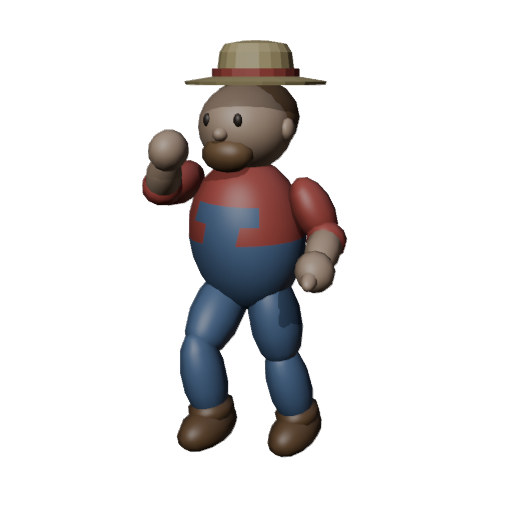
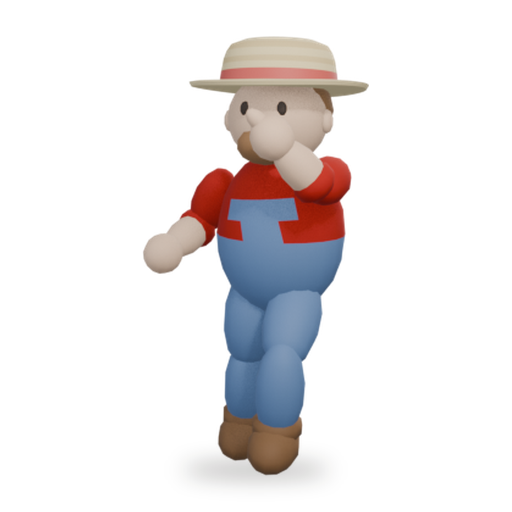
My Favorite Sheep: new screenshots and hero, cleaner cosmetic pictures, T-shirts (incl. Hoodlock) and auras
All new items stay behind MFS_ON_SALE (Coming soon) until the Steam page is live.

Changed region(s): [[0.25, 0.0625, 0.7188, 0.9688]]

diff --git a/lib/catalog.js b/lib/catalog.js
@@ -28,6 +28,14 @@ const ITEMS = [
   { id: 'mfs-outfit-bandana', game: MFS, name: 'Red bandana', description: 'Knotted at the neck, ready for dust.', usd: 3, image: '/shop/mfs-outfit-bandana.png', available: MFS_ON_SALE },
   { id: 'mfs-outfit-raincoat', game: MFS, name: 'Yellow raincoat', description: 'Bright as a warning. The wolf sees you coming, and so do your friends.', usd: 3, image: '/shop/mfs-outfit-raincoat.png', available: MFS_ON_SALE },
 
+  // ---- T-shirts (outfits: a fitted tee with a chest print; the sleeves take the tee's colour)
+  { id: 'mfs-outfit-tee-sheep', game: MFS, name: 'Sheep tee', description: 'Soft cream cotton with a woolly face on the front.', usd: 3, image: '/shop/mfs-outfit-tee-sheep.png', available: MFS_ON_SALE },
+  { id: 'mfs-outfit-tee-wolf', game: MFS, name: 'Howl tee', description: 'Charcoal, with a wolf howling at a golden moon. Bold, given the circumstances.', usd: 3, image: '/shop/mfs-outfit-tee-wolf.png', available: MFS_ON_SALE },
+  { id: 'mfs-outfit-tee-farmfresh', game: MFS, name: 'Farm Fresh tee', description: "Sage green with the farm's own stamp on the chest.", usd: 3, image: '/shop/mfs-outfit-tee-farmfresh.png', available: MFS_ON_SALE },
+  { id: 'mfs-outfit-tee-lamb', game: MFS, name: 'I Love Lambs tee', description: 'Pink, proud and completely sincere.', usd: 3, image: '/shop/mfs-outfit-tee-lamb.png', available: MFS_ON_SALE },
+  { id: 'mfs-outfit-tee-sunset', game: MFS, name: 'Sunset tee', description: 'Navy, with the sun going down behind the windmill.', usd: 3, image: '/shop/mfs-outfit-tee-sunset.png', available: MFS_ON_SALE },
+  { id: 'mfs-outfit-tee-hoodlock', game: MFS, name: 'Hoodlock tee', description: 'Black with the green Hoodlock mark - the farmers who keep the tokens locked.', usd: 3, image: '/shop/mfs-outfit-tee-hoodlock.png', available: MFS_ON_SALE },
+
   // ---- tool skins (stick, pitchfork and axe all change together)
   { id: 'mfs-skin-gilded', game: MFS, name: 'Gilded tools', description: 'Walnut handles and gold-plated heads. Ridiculous on a farm.', usd: 2, image: '/shop/mfs-skin-gilded.png', available: MFS_ON_SALE },
   { id: 'mfs-skin-blackiron', game: MFS, name: 'Black iron tools', description: 'Charcoal and blackened iron, for a farmer who means it.', usd: 2, image: '/shop/mfs-skin-blackiron.png', available: MFS_ON_SALE },
@@ -35,18 +43,26 @@ const ITEMS = [
   { id: 'mfs-skin-frostbite', game: MFS, name: 'Frostbite tools', description: 'Pale ash and a blade that glows cold in the dark.', usd: 2, image: '/shop/mfs-skin-frostbite.png', available: MFS_ON_SALE },
 
   // ---- titles (shown after the player's name to everyone in the game)
-  { id: 'mfs-title-shepherd', game: MFS, name: 'Title: Shepherd', description: 'Shown after your name to everyone in the game.', usd: 1, available: MFS_ON_SALE },
-  { id: 'mfs-title-wolfsbane', game: MFS, name: 'Title: Wolfsbane', description: 'Shown after your name to everyone in the game.', usd: 1.5, available: MFS_ON_SALE },
-  { id: 'mfs-title-sheriff', game: MFS, name: 'Title: Sheriff of the Pasture', description: 'Shown after your name to everyone in the game.', usd: 1.5, available: MFS_ON_SALE },
-  { id: 'mfs-title-lambchop', game: MFS, name: 'Title: Lamb Chop', description: 'Shown after your name to everyone in the game.', usd: 1, available: MFS_ON_SALE },
-  { id: 'mfs-title-nightwatch', game: MFS, name: 'Title: Night Watch', description: 'Shown after your name to everyone in the game.', usd: 1, available: MFS_ON_SALE },
-  { id: 'mfs-title-counter', game: MFS, name: 'Title: Counts Sheep to Sleep', description: 'Shown after your name to everyone in the game.', usd: 1, available: MFS_ON_SALE },
+  { id: 'mfs-title-shepherd', game: MFS, name: 'Title: Shepherd', description: 'Shown after your name to everyone in the game.', usd: 1, image: '/shop/mfs-title-shepherd.png', available: MFS_ON_SALE },
+  { id: 'mfs-title-wolfsbane', game: MFS, name: 'Title: Wolfsbane', description: 'Shown after your name to everyone in the game.', usd: 1.5, image: '/shop/mfs-title-wolfsbane.png', available: MFS_ON_SALE },
+  { id: 'mfs-title-sheriff', game: MFS, name: 'Title: Sheriff of the Pasture', description: 'Shown after your name to everyone in the game.', usd: 1.5, image: '/shop/mfs-title-sheriff.png', available: MFS_ON_SALE },
+  { id: 'mfs-title-lambchop', game: MFS, name: 'Title: Lamb Chop', description: 'Shown after your name to everyone in the game.', usd: 1, image: '/shop/mfs-title-lambchop.png', available: MFS_ON_SALE },
+  { id: 'mfs-title-nightwatch', game: MFS, name: 'Title: Night Watch', description: 'Shown after your name to everyone in the game.', usd: 1, image: '/shop/mfs-title-nightwatch.png', available: MFS_ON_SALE },
+  { id: 'mfs-title-counter', game: MFS, name: 'Title: Counts Sheep to Sleep', description: 'Shown after your name to everyone in the game.', usd: 1, image: '/shop/mfs-title-counter.png', available: MFS_ON_SALE },
 
   // ---- emotes (each adds a slice to the in-game emote wheel)
   { id: 'mfs-emote-wave', game: MFS, name: 'Emote: Wave', description: 'A big friendly wave.', usd: 5, image: '/shop/mfs-emote-wave.png', available: MFS_ON_SALE },
   { id: 'mfs-emote-jig', game: MFS, name: 'Emote: Jig', description: 'A little victory dance.', usd: 5, image: '/shop/mfs-emote-jig.png', available: MFS_ON_SALE },
   { id: 'mfs-emote-facepalm', game: MFS, name: 'Emote: Facepalm', description: 'For when the notebook says it was obvious.', usd: 5, image: '/shop/mfs-emote-facepalm.png', available: MFS_ON_SALE },
   { id: 'mfs-emote-bow', game: MFS, name: 'Emote: Bow', description: 'Take a bow.', usd: 5, image: '/shop/mfs-emote-bow.png', available: MFS_ON_SALE },
+
+  // ---- auras (a gentle particle effect around your farmer that everyone else sees)
+  { id: 'mfs-aura-fireflies', game: MFS, name: 'Aura: Fireflies', description: 'A few warm fireflies drift around you, day and night.', usd: 4, image: '/shop/mfs-aura-fireflies.png', available: MFS_ON_SALE },
+  { id: 'mfs-aura-sparkle', game: MFS, name: 'Aura: Golden glint', description: 'Little gold sparkles rise off your shoulders.', usd: 4, image: '/shop/mfs-aura-sparkle.png', available: MFS_ON_SALE },
+  { id: 'mfs-aura-raincloud', game: MFS, name: 'Aura: Personal rain cloud', description: 'A small grey cloud follows you about and drizzles on your hat.', usd: 5, image: '/shop/mfs-aura-raincloud.png', available: MFS_ON_SALE },
+  { id: 'mfs-aura-hearts', game: MFS, name: 'Aura: Sweetheart', description: 'Tiny hearts float up now and then. The sheep approve.', usd: 4, image: '/shop/mfs-aura-hearts.png', available: MFS_ON_SALE },
+  { id: 'mfs-aura-leaves', game: MFS, name: 'Aura: Autumn swirl', description: 'A handful of autumn leaves circles your boots.', usd: 4, image: '/shop/mfs-aura-leaves.png', available: MFS_ON_SALE },
+  { id: 'mfs-aura-frost', game: MFS, name: 'Aura: Frostbitten', description: 'Snowflakes drift about you and a cold mist curls at your feet.', usd: 4, image: '/shop/mfs-aura-frost.png', available: MFS_ON_SALE },
   // {
   //   id: 'game-neon-trail',
   //   game: 'Some Game',

diff --git a/lib/games.js b/lib/games.js
@@ -15,12 +15,15 @@ export const GAMES = [
       'Sixty-four sheep, a handful of farmers, and one wolf wearing a fleece. It kills when nobody is looking and blends back in before you turn around.',
       'Farmers read ear tags up close, examine bodies for clues, and pool their notebooks to narrow the suspects. Buy binoculars, a radar, a stun stick or a scarecrow from the tool shed, and watch the weather: fog, rain and heat each change the hunt.',
       "Online, one player is secretly dealt the wolf. Solo, you choose: hunt it, or be it against three farmhands. Once the disguise drops, it's a rampage - stop the wolf before the flock is gone.",
+      'Between the scares there is a farm to live on: fish off the jetty, have a beer on the porch (and watch your footing after the third), and in solo games stop time for photo mode. Dress your farmer in hats, T-shirts, outfits and auras from the wardrobe.',
     ],
     shots: [
+      { src: '/games/my-favorite-sheep/shot-cosmetics.jpg', alt: 'Farmers in hats, T-shirts, outfits and auras from the wardrobe' },
       { src: '/games/my-favorite-sheep/shot-pasture.jpg', alt: 'The pasture: sixty-four sheep, and one of them is not a sheep' },
-      { src: '/games/my-favorite-sheep/shot-tag.jpg', alt: 'Reading an ear tag up close, with the option to pet the sheep' },
-      { src: '/games/my-favorite-sheep/shot-wolf.jpg', alt: 'Playing as the wolf: wearing tag 12, blending in until the next kill' },
-      { src: '/games/my-favorite-sheep/shot-wardrobe.jpg', alt: 'The wardrobe in the farmhouse lobby' },
+      { src: '/games/my-favorite-sheep/shot-wolf.jpg', alt: 'The disguise is off: the wolf loose by the barn' },
+      { src: '/games/my-favorite-sheep/shot-pond.jpg', alt: 'The pond, with a jetty to fish from' },
+      { src: '/games/my-favorite-sheep/shot-field.jpg', alt: 'The crop field and the windmill' },
+      { src: '/games/my-favorite-sheep/shot-barn.jpg', alt: 'Inside the barn' },
     ],
   },
 ];
